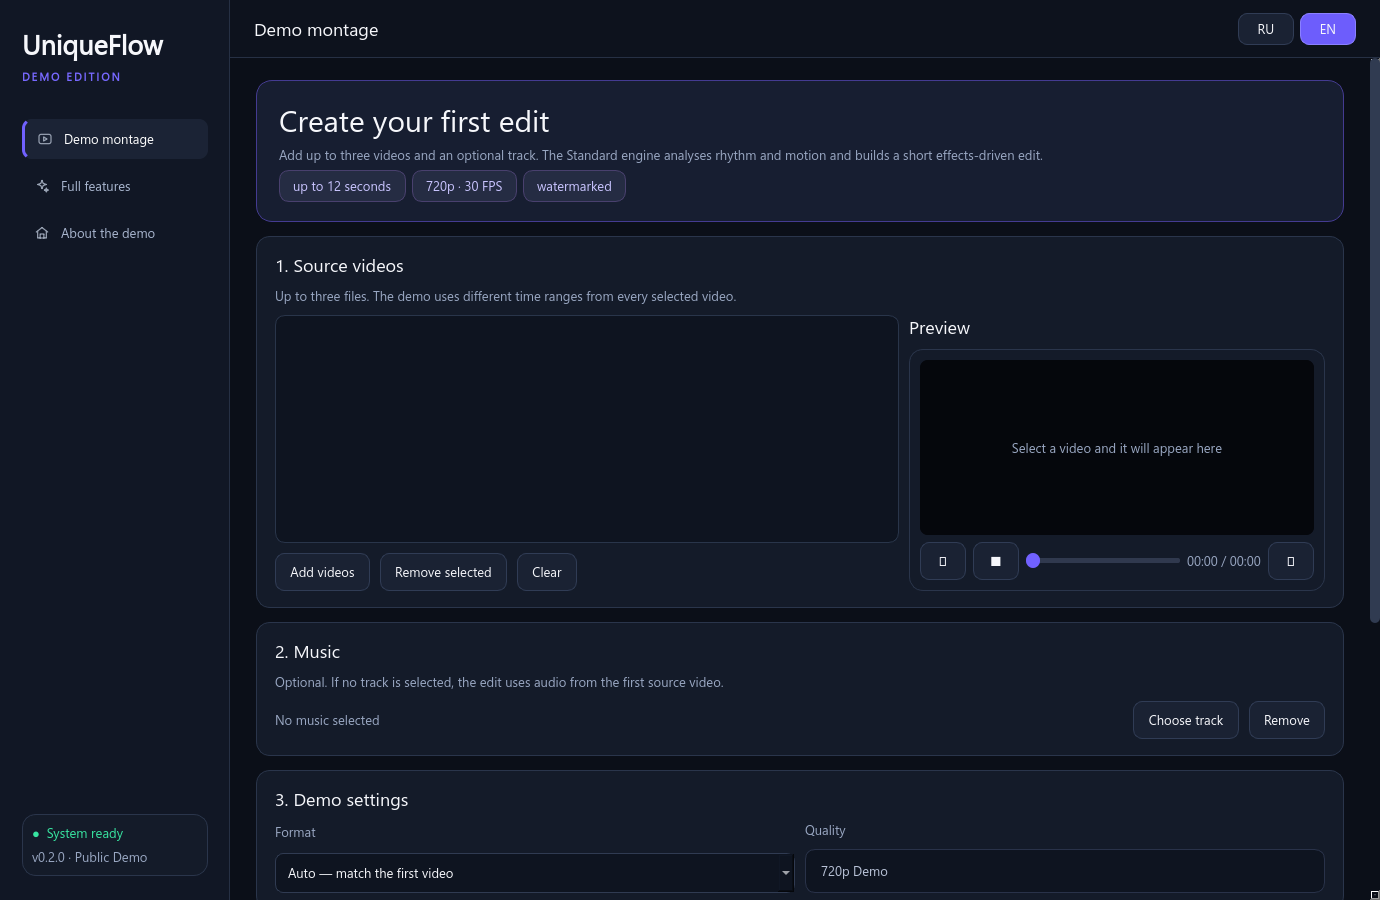
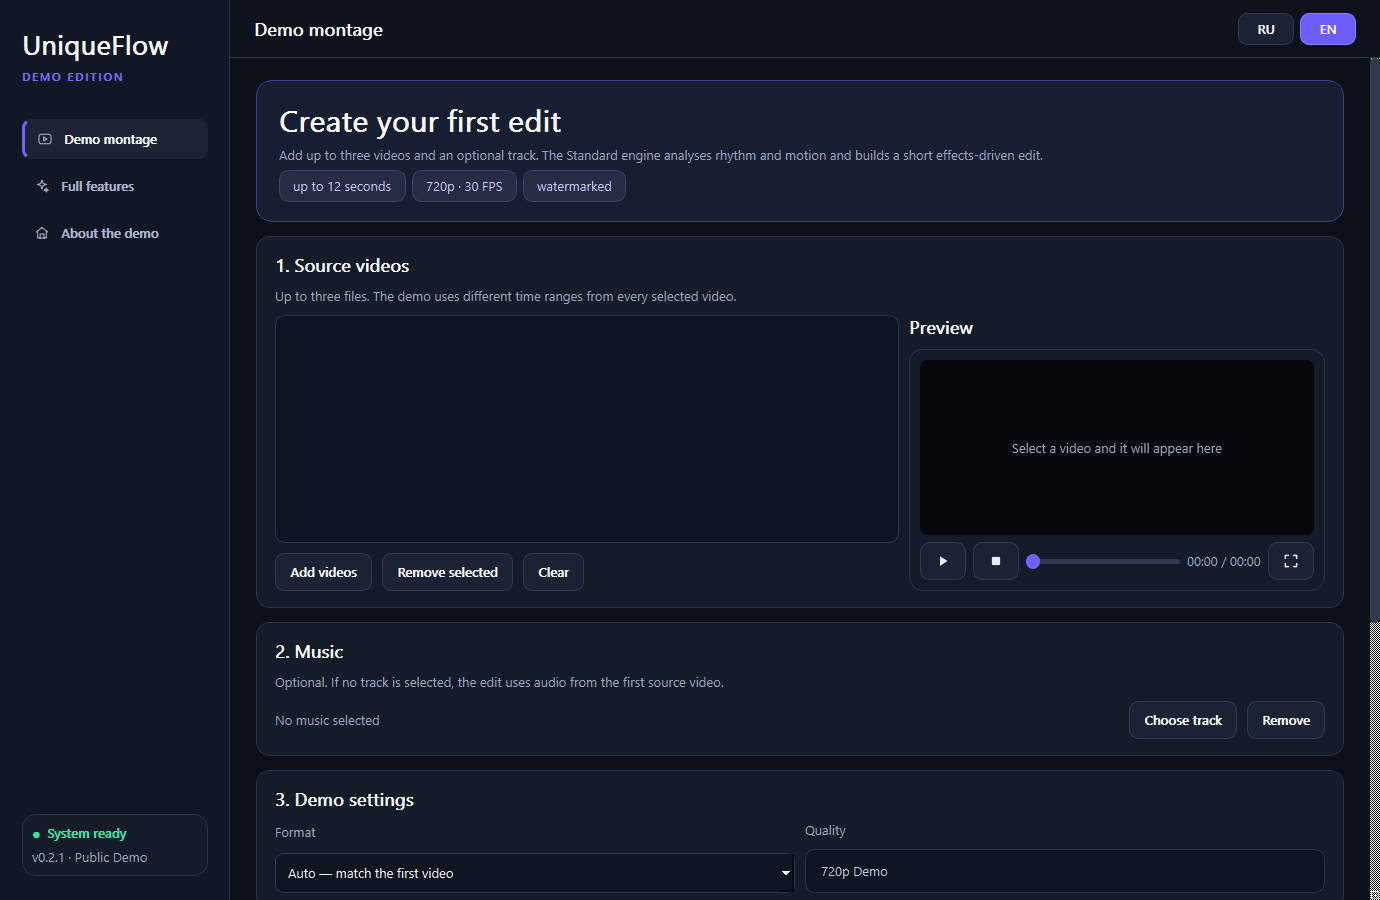
Fix demo player and publish 0.2.1

diff --git a/ru/index.html b/ru/index.html
@@ -51,7 +51,7 @@
     <section class="proof-strip" aria-label="Параметры демоверсии"><div class="shell proof-grid"><div><b>3</b><span>исходных видео</span></div><div><b>12с</b><span>готовый результат</span></div><div><b>720p</b><span>экспорт H.264</span></div><div><b>100%</b><span>локальная работа</span></div></div></section>
 
     <section class="section showcase" id="showcase"><div class="shell showcase-grid">
-      <div class="section-copy reveal"><p class="eyebrow"><span></span> Демонстрация продукта</p><h2>Посмотрите процесс,<br>а не обещания.</h2><p>Full Edition развивается как умная творческая студия. Demo 0.2.0 уже позволяет проверить настоящий, но ограниченный Standard-монтаж.</p><ul class="check-list"><li>Добавьте до трёх локальных роликов</li><li>Выберите музыку или оставьте звук первого видео</li><li>Получите Standard-монтаж с учётом ритма</li></ul></div>
+      <div class="section-copy reveal"><p class="eyebrow"><span></span> Демонстрация продукта</p><h2>Посмотрите процесс,<br>а не обещания.</h2><p>Full Edition развивается как умная творческая студия. Demo 0.2.1 уже позволяет проверить настоящий, но ограниченный Standard-монтаж с исправленным встроенным плеером.</p><ul class="check-list"><li>Добавьте до трёх локальных роликов</li><li>Выберите музыку или оставьте звук первого видео</li><li>Получите Standard-монтаж с учётом ритма</li></ul></div>
       <div class="video-card reveal"><div class="video-label"><span>UNIQUEFLOW</span><small>ПРЕДПРОСМОТР FULL EDITION</small></div><video controls playsinline preload="metadata" poster="../assets/promo-poster-ru.jpg"><source src="../assets/uniqueflow-studio-promo-ru.mp4" type="video/mp4">Ваш браузер не поддерживает HTML5-видео.</video><p>Рекламная демонстрация. Публичная версия намеренно ограничена.</p></div>
     </div></section>
 
@@ -81,10 +81,10 @@
 
     <section class="section section-muted" id="faq"><div class="shell faq-grid">
       <div class="section-copy reveal"><p class="eyebrow"><span></span> Вопросы</p><h2>Что важно знать.</h2><p>UniqueFlow пока находится на ранней стадии. Честные отзывы напрямую влияют на следующие функции.</p></div>
-      <div class="faq-list reveal"><details><summary>Демоверсия бесплатная?</summary><p>Да. Версия 0.2.0 — ограниченная ознакомительная сборка со Standard-монтажом и видимым водяным знаком.</p></details><details><summary>Видео загружаются в интернет?</summary><p>Нет. Публичное демо обрабатывает выбранные файлы локально и не содержит телеметрии.</p></details><details><summary>Почему Windows показывает предупреждение?</summary><p>Ранняя сборка пока не подписана цифровой подписью, поэтому SmartScreen может показать «Неизвестный издатель». Скачивайте программу только из официального GitHub Release и сверяйте SHA-256.</p></details><details><summary>Можно использовать любое видео?</summary><p>Используйте только свои материалы или контент, на который у вас есть разрешение. Программа не предназначена для нарушения приватности, авторских прав или правил площадок.</p></details><details><summary>Как связаться с разработчиком?</summary><p>Напишите в Telegram <a href="https://t.me/zloy_tomych">@zloy_tomych</a> или создайте Issue на GitHub.</p></details></div>
+      <div class="faq-list reveal"><details><summary>Демоверсия бесплатная?</summary><p>Да. Версия 0.2.1 — ограниченная ознакомительная сборка со Standard-монтажом, исправленным плеером и видимым водяным знаком.</p></details><details><summary>Видео загружаются в интернет?</summary><p>Нет. Публичное демо обрабатывает выбранные файлы локально и не содержит телеметрии.</p></details><details><summary>Почему Windows показывает предупреждение?</summary><p>Ранняя сборка пока не подписана цифровой подписью, поэтому SmartScreen может показать «Неизвестный издатель». Скачивайте программу только из официального GitHub Release и сверяйте SHA-256.</p></details><details><summary>Можно использовать любое видео?</summary><p>Используйте только свои материалы или контент, на который у вас есть разрешение. Программа не предназначена для нарушения приватности, авторских прав или правил площадок.</p></details><details><summary>Как связаться с разработчиком?</summary><p>Напишите в Telegram <a href="https://t.me/zloy_tomych">@zloy_tomych</a> или создайте Issue на GitHub.</p></details></div>
     </div></section>
 
-    <section class="final-cta"><div class="shell final-cta-inner reveal"><div><p class="eyebrow"><span></span> Помогите выбрать следующий шаг</p><h2>Попробуйте. Проверьте. Расскажите, что важно.</h2><p>Ваш отзыв поможет расставить приоритеты развития.</p></div><div class="final-actions"><a class="button button-primary" href="https://github.com/chernoivanenko45/UniqueFlow-Studio-Demo/releases/latest">Скачать Demo 0.2.0</a><a class="button button-ghost" href="https://t.me/zloy_tomych">Telegram @zloy_tomych</a></div></div></section>
+    <section class="final-cta"><div class="shell final-cta-inner reveal"><div><p class="eyebrow"><span></span> Помогите выбрать следующий шаг</p><h2>Попробуйте. Проверьте. Расскажите, что важно.</h2><p>Ваш отзыв поможет расставить приоритеты развития.</p></div><div class="final-actions"><a class="button button-primary" href="https://github.com/chernoivanenko45/UniqueFlow-Studio-Demo/releases/latest">Скачать Demo 0.2.1</a><a class="button button-ghost" href="https://t.me/zloy_tomych">Telegram @zloy_tomych</a></div></div></section>
   </main>
 
   <footer><div class="shell footer-grid"><div class="brand footer-brand"><img src="../assets/app-icon.svg" alt="" width="34" height="34"><span><strong>UniqueFlow</strong><small>STUDIO</small></span></div><p>© <span data-year>2026</span> UniqueFlow Studio. Проприетарное ПО. Демо только для ознакомления.</p><nav aria-label="Юридическая информация"><a href="../PRIVACY.md">Приватность</a><a href="../RESPONSIBLE_USE.md">Правила</a><a href="../LICENSE.md">Лицензия</a><a href="https://github.com/chernoivanenko45/UniqueFlow-Studio-Demo">GitHub</a></nav></div></footer>

diff --git a/index.html b/index.html
@@ -88,7 +88,7 @@
         <div class="section-copy reveal">
           <p class="eyebrow"><span></span> Product preview</p>
           <h2>See the workflow,<br>not another promise.</h2>
-          <p>The Full Edition is being developed as a smarter creative workstation. Demo 0.2.0 now lets you test a real, deliberately limited Standard montage workflow.</p>
+          <p>The Full Edition is being developed as a smarter creative workstation. Demo 0.2.1 now lets you test a real, deliberately limited Standard montage workflow with a corrected built-in player.</p>
           <ul class="check-list">
             <li>Bring up to three local clips</li>
             <li>Add music or keep audio from the first source</li>
@@ -163,7 +163,7 @@
       <div class="shell faq-grid">
         <div class="section-copy reveal"><p class="eyebrow"><span></span> Questions</p><h2>Good to know.</h2><p>UniqueFlow is still an early product. Honest feedback now directly influences what gets built next.</p></div>
         <div class="faq-list reveal">
-          <details><summary>Is the demo free?</summary><p>Yes. Version 0.2.0 is a limited evaluation build with Standard montage and a visible watermark.</p></details>
+          <details><summary>Is the demo free?</summary><p>Yes. Version 0.2.1 is a limited evaluation build with Standard montage, a corrected player and a visible watermark.</p></details>
           <details><summary>Does it upload my videos?</summary><p>No. The public demo processes selected media locally and contains no telemetry.</p></details>
           <details><summary>Why does Windows show a warning?</summary><p>This early preview is not code-signed yet, so SmartScreen may show an “Unknown publisher” warning. Download only from the official GitHub Release and verify its SHA-256 value.</p></details>
           <details><summary>Can I use any video?</summary><p>Use only media you own or have permission to process. The software must not be used to violate privacy, copyright or platform rules.</p></details>
@@ -175,7 +175,7 @@
     <section class="final-cta">
       <div class="shell final-cta-inner reveal">
         <div><p class="eyebrow"><span></span> Help shape the next version</p><h2>Try it. Break it. Tell us what matters.</h2><p>Your feedback decides which capabilities receive priority.</p></div>
-        <div class="final-actions"><a class="button button-primary" href="https://github.com/chernoivanenko45/UniqueFlow-Studio-Demo/releases/latest">Download Demo 0.2.0</a><a class="button button-ghost" href="https://t.me/zloy_tomych">Telegram @zloy_tomych</a></div>
+        <div class="final-actions"><a class="button button-primary" href="https://github.com/chernoivanenko45/UniqueFlow-Studio-Demo/releases/latest">Download Demo 0.2.1</a><a class="button button-ghost" href="https://t.me/zloy_tomych">Telegram @zloy_tomych</a></div>
       </div>
     </section>
   </main>

diff --git a/README.md b/README.md
@@ -22,10 +22,12 @@ This repository contains the **limited public Demo Edition**, created to collect
 ## Try it
 
 1. Open [Releases](https://github.com/chernoivanenko45/UniqueFlow-Studio-Demo/releases/latest).
-2. Download `UniqueFlowStudio_Demo_0.2.0_Portable.zip`.
+2. Download `UniqueFlowStudio_Demo_0.2.1_Portable.zip`.
 3. Extract the complete archive to a normal folder.
 4. Run `UniqueFlowStudioDemo.exe`.
 5. Add up to three videos, optionally choose a music track, and create a short demo edit.
+
+> Do not run the EXE directly inside WinRAR, 7-Zip or another archive viewer. Extract the complete folder first; the player and bundled multimedia libraries must remain together.
 
 > This early preview is unsigned. Windows SmartScreen may display an “Unknown publisher” warning. Verify the SHA-256 value shown in the Release before running it.
 

diff --git a/CHANGELOG.md b/CHANGELOG.md
@@ -1,5 +1,14 @@
 # Changelog
 
+## 0.2.1 — Player hotfix
+
+- Replaced the unstable native video surface with a persistent frame canvas
+- Fixed the black embedded result preview after playback warm-up
+- Fixed the malformed detached window opened by the full-screen button
+- Kept one synchronized playback position and one audio stream in both views
+- Added packaged EXE smoke checks for visible frames, full-screen coverage and duplicate audio
+- Added an explicit reminder to fully extract the ZIP before launching the demo
+
 ## 0.2.0 — Standard montage engine
 
 - Replaced the placeholder renderer with an isolated beat-aware Standard engine

diff --git a/FFMPEG_SOURCE_OFFER.md b/FFMPEG_SOURCE_OFFER.md
@@ -1,6 +1,6 @@
 # FFmpeg build and source information
 
-UniqueFlow Studio Demo 0.2.0 bundles the following unmodified upstream build:
+UniqueFlow Studio Demo 0.2.1 bundles the following unmodified upstream build:
 
 - Archive: `ffmpeg-N-125990-g5c395992f9-win64-lgpl-shared.zip`
[1 lines of base64/hex data omitted]
